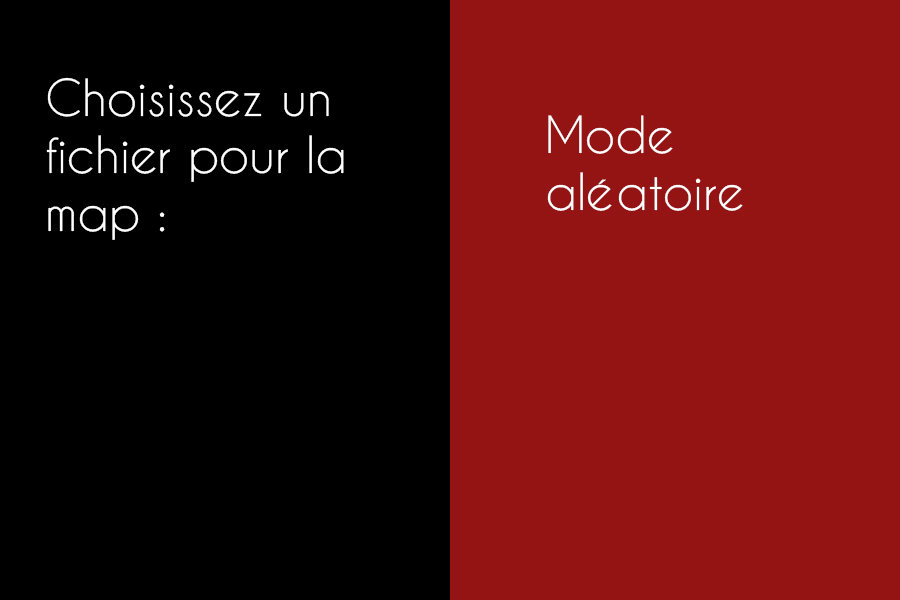
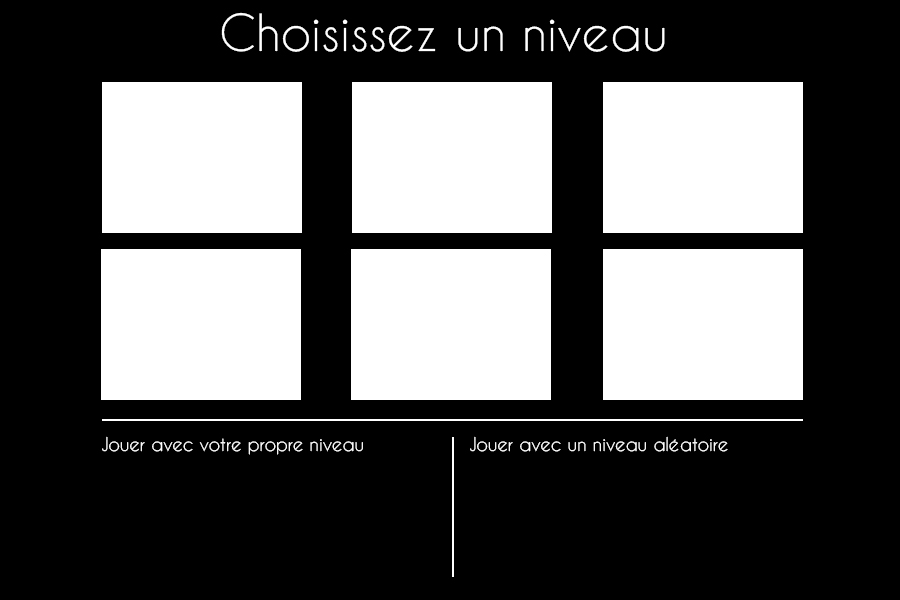
New interface for choosing map

diff --git a/src/fr/imac/javawars/player/Menu.java b/src/fr/imac/javawars/player/Menu.java
@@ -10,6 +10,7 @@ import java.awt.event.ActionListener;
 import java.awt.event.MouseAdapter;
 import java.awt.event.MouseEvent;
 import java.awt.geom.Rectangle2D;
+import java.awt.geom.Rectangle2D.Double;
 import java.io.File;
 import java.io.IOException;
 
@@ -59,52 +60,94 @@ public class Menu extends JPanel {
 	}
 	
 	/**
-	 * Interface to choose what type of map we want (random or from a file)
+	 * Interface to choose what type of map we want (random or from a file or level)
 	 */
 	public void addChoiceTypeGame(){
-		randomChoice.setPreferredSize(new Dimension(450,600));
-		fileChoice.setPreferredSize(new Dimension(450,600));
 		randomChoice.setOpaque(false);
 		fileChoice.setOpaque(false);
 		randomChoice.setVisible(false);
 		fileChoice.setVisible(false);
 		
 		this.setLayout(new BorderLayout());
-		this.add(BorderLayout.CENTER,fileChoice);
-		this.add(BorderLayout.EAST,randomChoice);
 		
+		JPanel south = new JPanel();
+		south.setOpaque(false);
+		south.setPreferredSize(new Dimension(900,150));
+		this.add(BorderLayout.SOUTH,south);
+		
+		south.setLayout(new BorderLayout());
+		fileChoice.setPreferredSize(new Dimension(450,150));
+		south.add(BorderLayout.WEST,fileChoice);
+		randomChoice.setPreferredSize(new Dimension(450,150));
+		south.add(BorderLayout.CENTER,randomChoice);
+		
+		displayFileChoice();
+		displayRandomChoice();	
+	}
+	
+	/**
+	 * Listener for the level choice
+	 */
+	public void displayLevelChoice(){
+		this.addMouseListener(new MouseAdapter() {
+            public void mouseClicked(MouseEvent e) {
+            	boolean fireGame = false;
+            	String map = null;
+            	
+            	Rectangle2D rect1 = new Rectangle2D.Double(100,80,200,150);
+            	Rectangle2D rect2 = new Rectangle2D.Double(350,80,200,150);
+            	Rectangle2D rect3 = new Rectangle2D.Double(600,80,200,150);
+            	Rectangle2D rect4 = new Rectangle2D.Double(100,250,200,150);
+            	Rectangle2D rect5 = new Rectangle2D.Double(350,250,200,150);
+            	Rectangle2D rect6 = new Rectangle2D.Double(600,250,200,150);
+            	
+            	if ((e.getButton() == 1) && rect1.contains(e.getX(), e.getY()) ) {
+            		fireGame=true;
+            		map = "map/mapCool.png";
+            	}
+            	else if((e.getButton() == 1) && rect2.contains(e.getX(), e.getY()) ) {
+            		fireGame=true;
+            		map = "map/mapCool.png";
+            	}
+            	else if((e.getButton() == 1) && rect3.contains(e.getX(), e.getY()) ) {
+            		fireGame=true;
+            		map = "map/mapCool.png";
+            	}
+            	else if((e.getButton() == 1) && rect4.contains(e.getX(), e.getY()) ) {
+            		fireGame=true;
+            		map = "map/mapCool.png";
+            	}
+            	else if((e.getButton() == 1) && rect5.contains(e.getX(), e.getY()) ) {
+            		fireGame=true;
+            		map = "map/mapCool.png";
+            	}
+            	else if((e.getButton() == 1) && rect6.contains(e.getX(), e.getY()) ) {
+            		fireGame=true;
+            		map = "map/mapCool.png";
+            	}
+            	
+            	if(fireGame){
+            		JavaWars.getEngine().initializationOfTheGame(JavaWars.getHuman(),new IA(2, "IA 1") , new IA(3, "IA 2") ,new IA(4, "IA 3") ,false, new File(map));
+    	        	JavaWars.getHuman().getIhm().CreatePanel();
+    	        	JavaWars.getEngine().startThread();
+            		JavaWars.getEngine().startThreadIA();
+            	}
+            }
+		});
+	}
+	
+	/**
+	 * Interface for random choice
+	 */
+	public void displayRandomChoice(){
 		//random choice
 		JButton boutonRandom = new JButton("Jouer");
 		randomChoice.setLayout(null);
-		boutonRandom.setBounds(170,350,150,50);
+		boutonRandom.setBounds(100,60,150,50);
 		boutonRandom.setBorderPainted(false);
-		boutonRandom.setBackground(Color.black);
+		boutonRandom.setBackground(new Color(148,20,20));
 		boutonRandom.setForeground(Color.white);
 		randomChoice.add(boutonRandom);
-		
-		//file choice
-		fileChoice.setLayout(null);
-		
-		JButton open = new JButton("Choisir un fichier");
-		open.setBorderPainted(false);
-		open.setBackground(Color.white);
-		open.setBounds(150,350,150,50);
-		final JFileChooser fc = new JFileChooser();
-		fileChoice.add(open);
-		
-		JButton boutonFile = new JButton("Jouer");
-		boutonFile.setBorderPainted(false);
-		boutonFile.setBackground(new Color(148,20,20));
-		boutonFile.setForeground(Color.white);
-		boutonFile.setBounds(150,450,150,50);
-		fileChoice.add(boutonFile);
-		
-		open.addActionListener(new ActionListener() {
-	        public void actionPerformed(ActionEvent e){
-	        	fc.showOpenDialog(JavaWars.getHuman().getIhm());
-	        	map = fc.getSelectedFile();
-	        }
-	    });
 
 		//addingListener to begin game
 		boutonRandom.addActionListener(new ActionListener() {
@@ -115,7 +158,37 @@ public class Menu extends JPanel {
         		JavaWars.getEngine().startThreadIA();
 	        }
 	    });
+	}
+	
+	/**
+	 * Interface for file choice
+	 */
+	public void displayFileChoice(){
+		//file choice
+		fileChoice.setLayout(null);
 		
+		JButton open = new JButton("Choisir un fichier");
+		open.setBorderPainted(false);
+		open.setBackground(Color.white);
+		open.setBounds(150,40,150,30);
+		final JFileChooser fc = new JFileChooser();
+		fileChoice.add(open);
+		
+		JButton boutonFile = new JButton("Jouer");
+		boutonFile.setBorderPainted(false);
+		boutonFile.setBackground(new Color(148,20,20));
+		boutonFile.setForeground(Color.white);
+		boutonFile.setBounds(150,80,150,50);
+		fileChoice.add(boutonFile);
+		
+		open.addActionListener(new ActionListener() {
+	        public void actionPerformed(ActionEvent e){
+	        	fc.showOpenDialog(JavaWars.getHuman().getIhm());
+	        	map = fc.getSelectedFile();
+	        }
+	    });
+		
+		//when the play bouton is clicked
 		boutonFile.addActionListener(new ActionListener() {
 	        public void actionPerformed(ActionEvent e){
 	        	JavaWars.getEngine().initializationOfTheGame(JavaWars.getHuman(),new IA(2, "IA 1") , new IA(3, "IA 2") ,new IA(4, "IA 3") ,false,map);
@@ -135,6 +208,7 @@ public class Menu extends JPanel {
             public void mouseClicked(MouseEvent e) {
             	if ((e.getButton() == 1) && boutonPlay.contains(e.getX(), e.getY()) ) {
             		chooseTypeOfGame();
+            		displayLevelChoice();
             	}
             }
 		});
@@ -144,6 +218,7 @@ public class Menu extends JPanel {
 	 * Choosing type of map we want (random or from a file)
 	 */
 	public void chooseTypeOfGame(){
+		boutonPlay = new Rectangle2D.Double(0,0,0,0);
 		randomChoice.setVisible(true);
 		fileChoice.setVisible(true);
 		try {
@@ -160,7 +235,6 @@ public class Menu extends JPanel {
 	 */
 	public void setBackgroundEnd(boolean gagne){
 		//resetting btn with new coordinates
-		boutonPlay = new Rectangle2D.Double(0,0,0,0);
 		randomChoice.setVisible(false);
 		fileChoice.setVisible(false);
 		Human player =(Human)JavaWars.getEngine().getPlayers().get(1);
